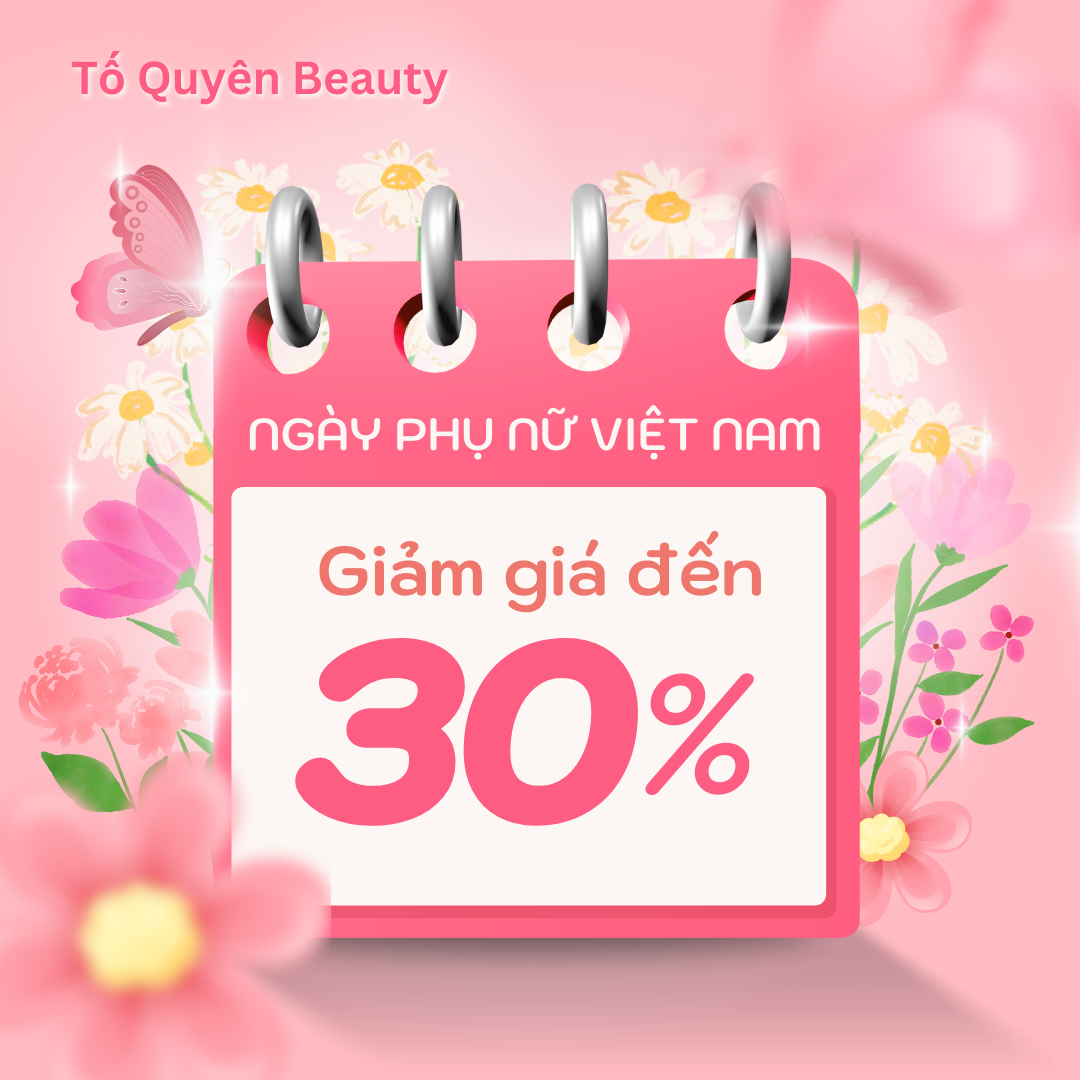
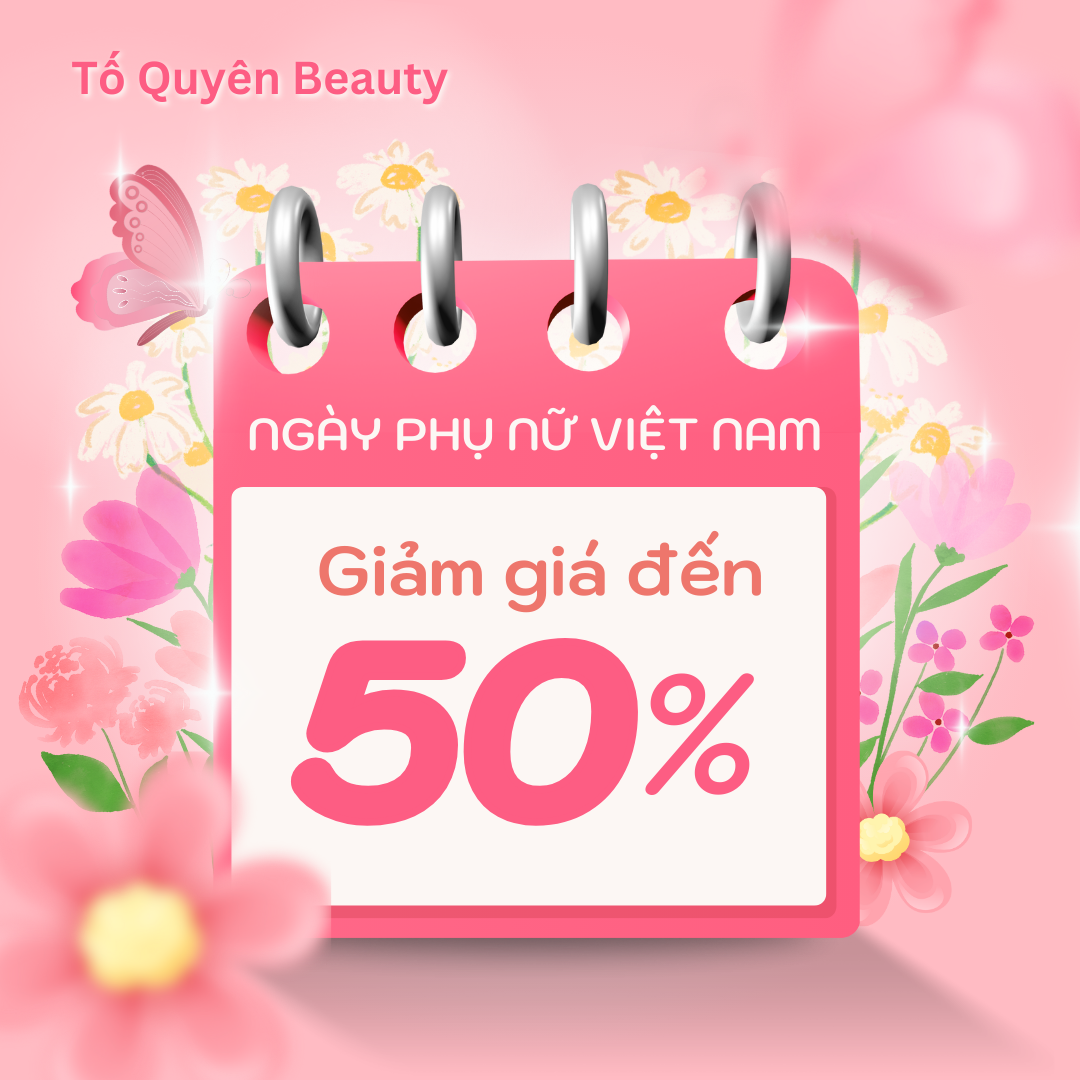
Update

Changed region(s): [[0.275, 0.5806, 0.4278, 0.7333], [0.3056, 0.5806, 0.3361, 0.6111], [0.2444, 0.7028, 0.275, 0.7333]]

diff --git a/components/promotions-banner.tsx b/components/promotions-banner.tsx
@@ -89,10 +89,7 @@ export default function PromotionsBanner() {
                       <Gift className="h-3 w-3 text-primary" />
                     </div>
                     <p>
-                      Giảm{" "}
-                      <span className="font-bold text-primary">
-                        30% đến 50%
-                      </span>{" "}
+                      Giảm <span className="font-bold text-primary">50%</span>{" "}
                       dịch vụ{" "}
                       <span className="font-bold text-primary">Phun xăm</span>
                     </p>
@@ -166,7 +163,7 @@ export default function PromotionsBanner() {
                   transition={{ duration: 5, repeat: Number.POSITIVE_INFINITY }}
                 >
                   <div>
-                    <div className="text-2xl">-30%</div>
+                    <div className="text-2xl">-50%</div>
                     <div className="text-xs">Chỉ 3 tuần</div>
                   </div>
                 </motion.div>
